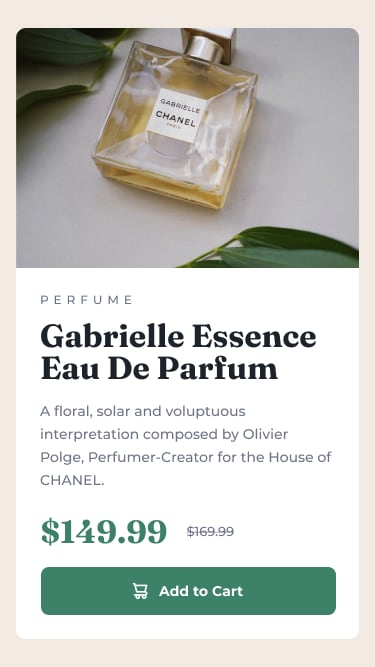
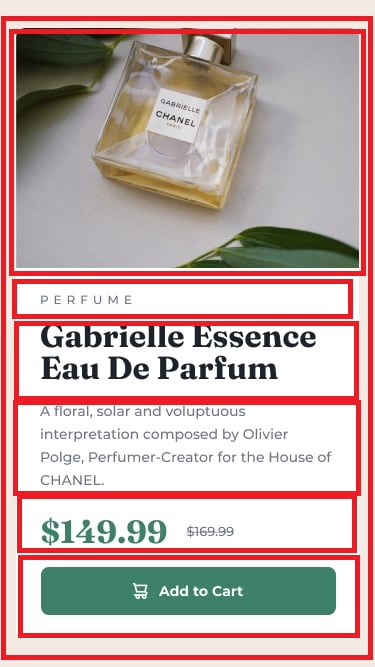
css mobile

Changed region(s): [[0.0, 0.0, 0.9973, 0.9895]]

diff --git a/index.css b/index.css
@@ -1,0 +1,217 @@
+@import url("https://fonts.googleapis.com/css2?family=Montserrat:wght@300&display=swap");
+@import url("https://fonts.googleapis.com/css2?family=Fraunces:ital,opsz,wght@0,9..144,100..900;1,9..144,100..900&family=Montserrat:ital,wght@0,100..900;1,100..900&family=Pacifico&family=Source+Sans+3:ital,wght@0,300;1,300&display=swap");
+
+:root {
+  --clr-Dark-cyan:hsl(158, 36%, 37%);
+  --clr-Cream: hsl(30, 38%, 92%);
+  --clr-Very-dark-blue: hsl(212, 21%, 14%);
+  --clr-Dark-grayish-blue: hsl(228, 12%, 48%);
+  --clr-White: hsl(0, 0%, 100%);
+
+  --font-header: "Montserrat", sans-serif;
+  --font-body: "Fraunces", sans-serif;
+}
+
+/* Reset CSS */
+html,
+body,
+div,
+span,
+applet,
+object,
+iframe,
+h1,
+h2,
+h3,
+h4,
+h5,
+h6,
+p,
+blockquote,
+pre,
+a,
+abbr,
+acronym,
+address,
+big,
+cite,
+code,
+del,
+dfn,
+em,
+img,
+ins,
+kbd,
+q,
+s,
+samp,
+small,
+strike,
+strong,
+sub,
+sup,
+tt,
+var,
+b,
+u,
+i,
+center,
+dl,
+dt,
+dd,
+ol,
+ul,
+li,
+fieldset,
+form,
+label,
+legend,
+table,
+caption,
+tbody,
+tfoot,
+thead,
+tr,
+th,
+td,
+article,
+aside,
+canvas,
+details,
+embed,
+figure,
+figcaption,
+footer,
+header,
+hgroup,
+menu,
+nav,
+output,
+ruby,
+section,
+summary,
+time,
+mark,
+audio,
+video {
+  margin: 0;
+  padding: 0;
+  border: 0;
+  font-size: 100%;
+  font: inherit;
+  vertical-align: baseline;
+}
+
+article,
+aside,
+details,
+figcaption,
+figure,
+footer,
+header,
+hgroup,
+menu,
+nav,
+section {
+  display: block;
+}
+body {
+  line-height: 1;
+}
+ol,
+ul {
+  list-style: none;
+}
+blockquote,
+q {
+  quotes: none;
+}
+blockquote:before,
+blockquote:after,
+q:before,
+q:after {
+  content: "";
+  content: none;
+}
+table {
+  border-collapse: collapse;
+  border-spacing: 0;
+}
+/* End Reset CSS */
+
+/* Cascading styles */
+body {
+  font-family: var(--font-body);
+  color: var(--clr-black);
+  background-color: var(--clr-Cream);
+  padding: 1rem;
+
+    .card{
+        background-color: var(--clr-White);
+
+        .image{
+                max-width: 100%;       
+            }
+
+        .card-section{
+            padding: 0 1.5rem 1rem 1.5rem;
+            
+            .title__perfume{
+                font-size: 0.8rem;
+                font-family: var(--font-header);
+                font-weight: 200;
+                margin: 1rem 0 1rem;
+            }
+
+            .name__perfume{
+                font-size: 2rem;
+                font-weight: 700;
+                font-family: var(--font-body);
+                margin-bottom: 1.2rem;
+            }
+
+            .description{
+                font-family: var(--font-header);
+                font-weight: 300;
+                line-height: 1.5rem;
+                font-size: 0.9rem;
+                margin-bottom: 1rem;
+            }
+
+            .price{
+                .price__true{
+                    font-size: 1.5rem;
+                    color: var(--clr-Dark-cyan);
+                    font-weight: 700;
+                    margin-right: 1rem;
+                }
+
+                .price__false{
+                    color: var(--clr-Dark-grayish-blue);
+                    font-size: smaller;
+                    text-decoration: line-through;
+                    font-weight: 300;
+                }
+            }
+
+            .button{
+                background-color: var(--clr-Dark-cyan);
+                color: var(--clr-White);
+                border: none;
+                padding: 0.8rem 1.5rem;
+                font-size: 1rem;
+                cursor: pointer;
+                border-radius: 0.5rem;
+                transition: background-color 0.3s ease;
+                width: 100%;
+                box-sizing: border-box;
+                margin-top: 1rem;
+            }
+
+            .button:hover {
+                background-color: var(--clr-Very-dark-blue);
+            }
+        }
+    }
+}
+

diff --git a/index.html b/index.html
@@ -5,7 +5,8 @@
   <meta name="viewport" content="width=device-width, initial-scale=1.0"> <!-- displays site properly based on user's device -->
 
   <link rel="icon" type="image/png" sizes="32x32" href="./images/favicon-32x32.png">
-  
+  <link href="index.css" rel="stylesheet">
+
   <title>Frontend Mentor | Product preview card component</title>
 
   <!-- Feel free to remove these styles or customise in your own stylesheet 👍 -->
@@ -15,22 +16,28 @@
   </style>
 </head>
 <body>
+  <div class="card">    
+    <img src="./images/image-product-mobile.jpg" alt="img-parfum" class="image">
+    <div class="card-section">
+        <h3 class="title__perfume">P E R F U M E</h3>
 
-  Perfume
+      <h1 class="name__perfume">Gabrielle Essence Eau De Parfum</h1>
 
-  Gabrielle Essence Eau De Parfum
+      <p class="description">A floral, solar and voluptuous interpretation composed by Olivier Polge, 
+      Perfumer-Creator for the House of CHANEL.</p>
+      
+      <div class="price">
+        <span class="price__true">$149.99</span>
+        <span class="price__false">$169.99</span>
+      </div>
 
-  A floral, solar and voluptuous interpretation composed by Olivier Polge, 
-  Perfumer-Creator for the House of CHANEL.
-
-  $149.99
-  $169.99
-
-  Add to Cart
-  
-  <div class="attribution">
-    Challenge by <a href="https://www.frontendmentor.io?ref=challenge" target="_blank">Frontend Mentor</a>. 
-    Coded by <a href="#">Your Name Here</a>.
+      <button class="button">Add to Cart</button>
+      
+      <!-- <div class="attribution">
+        Challenge by <a href="https://www.frontendmentor.io?ref=challenge" target="_blank">Frontend Mentor</a>. 
+        Coded by <a href="#">Landry445</a>.
+      </div> -->
+    </div>
   </div>
 </body>
 </html>
